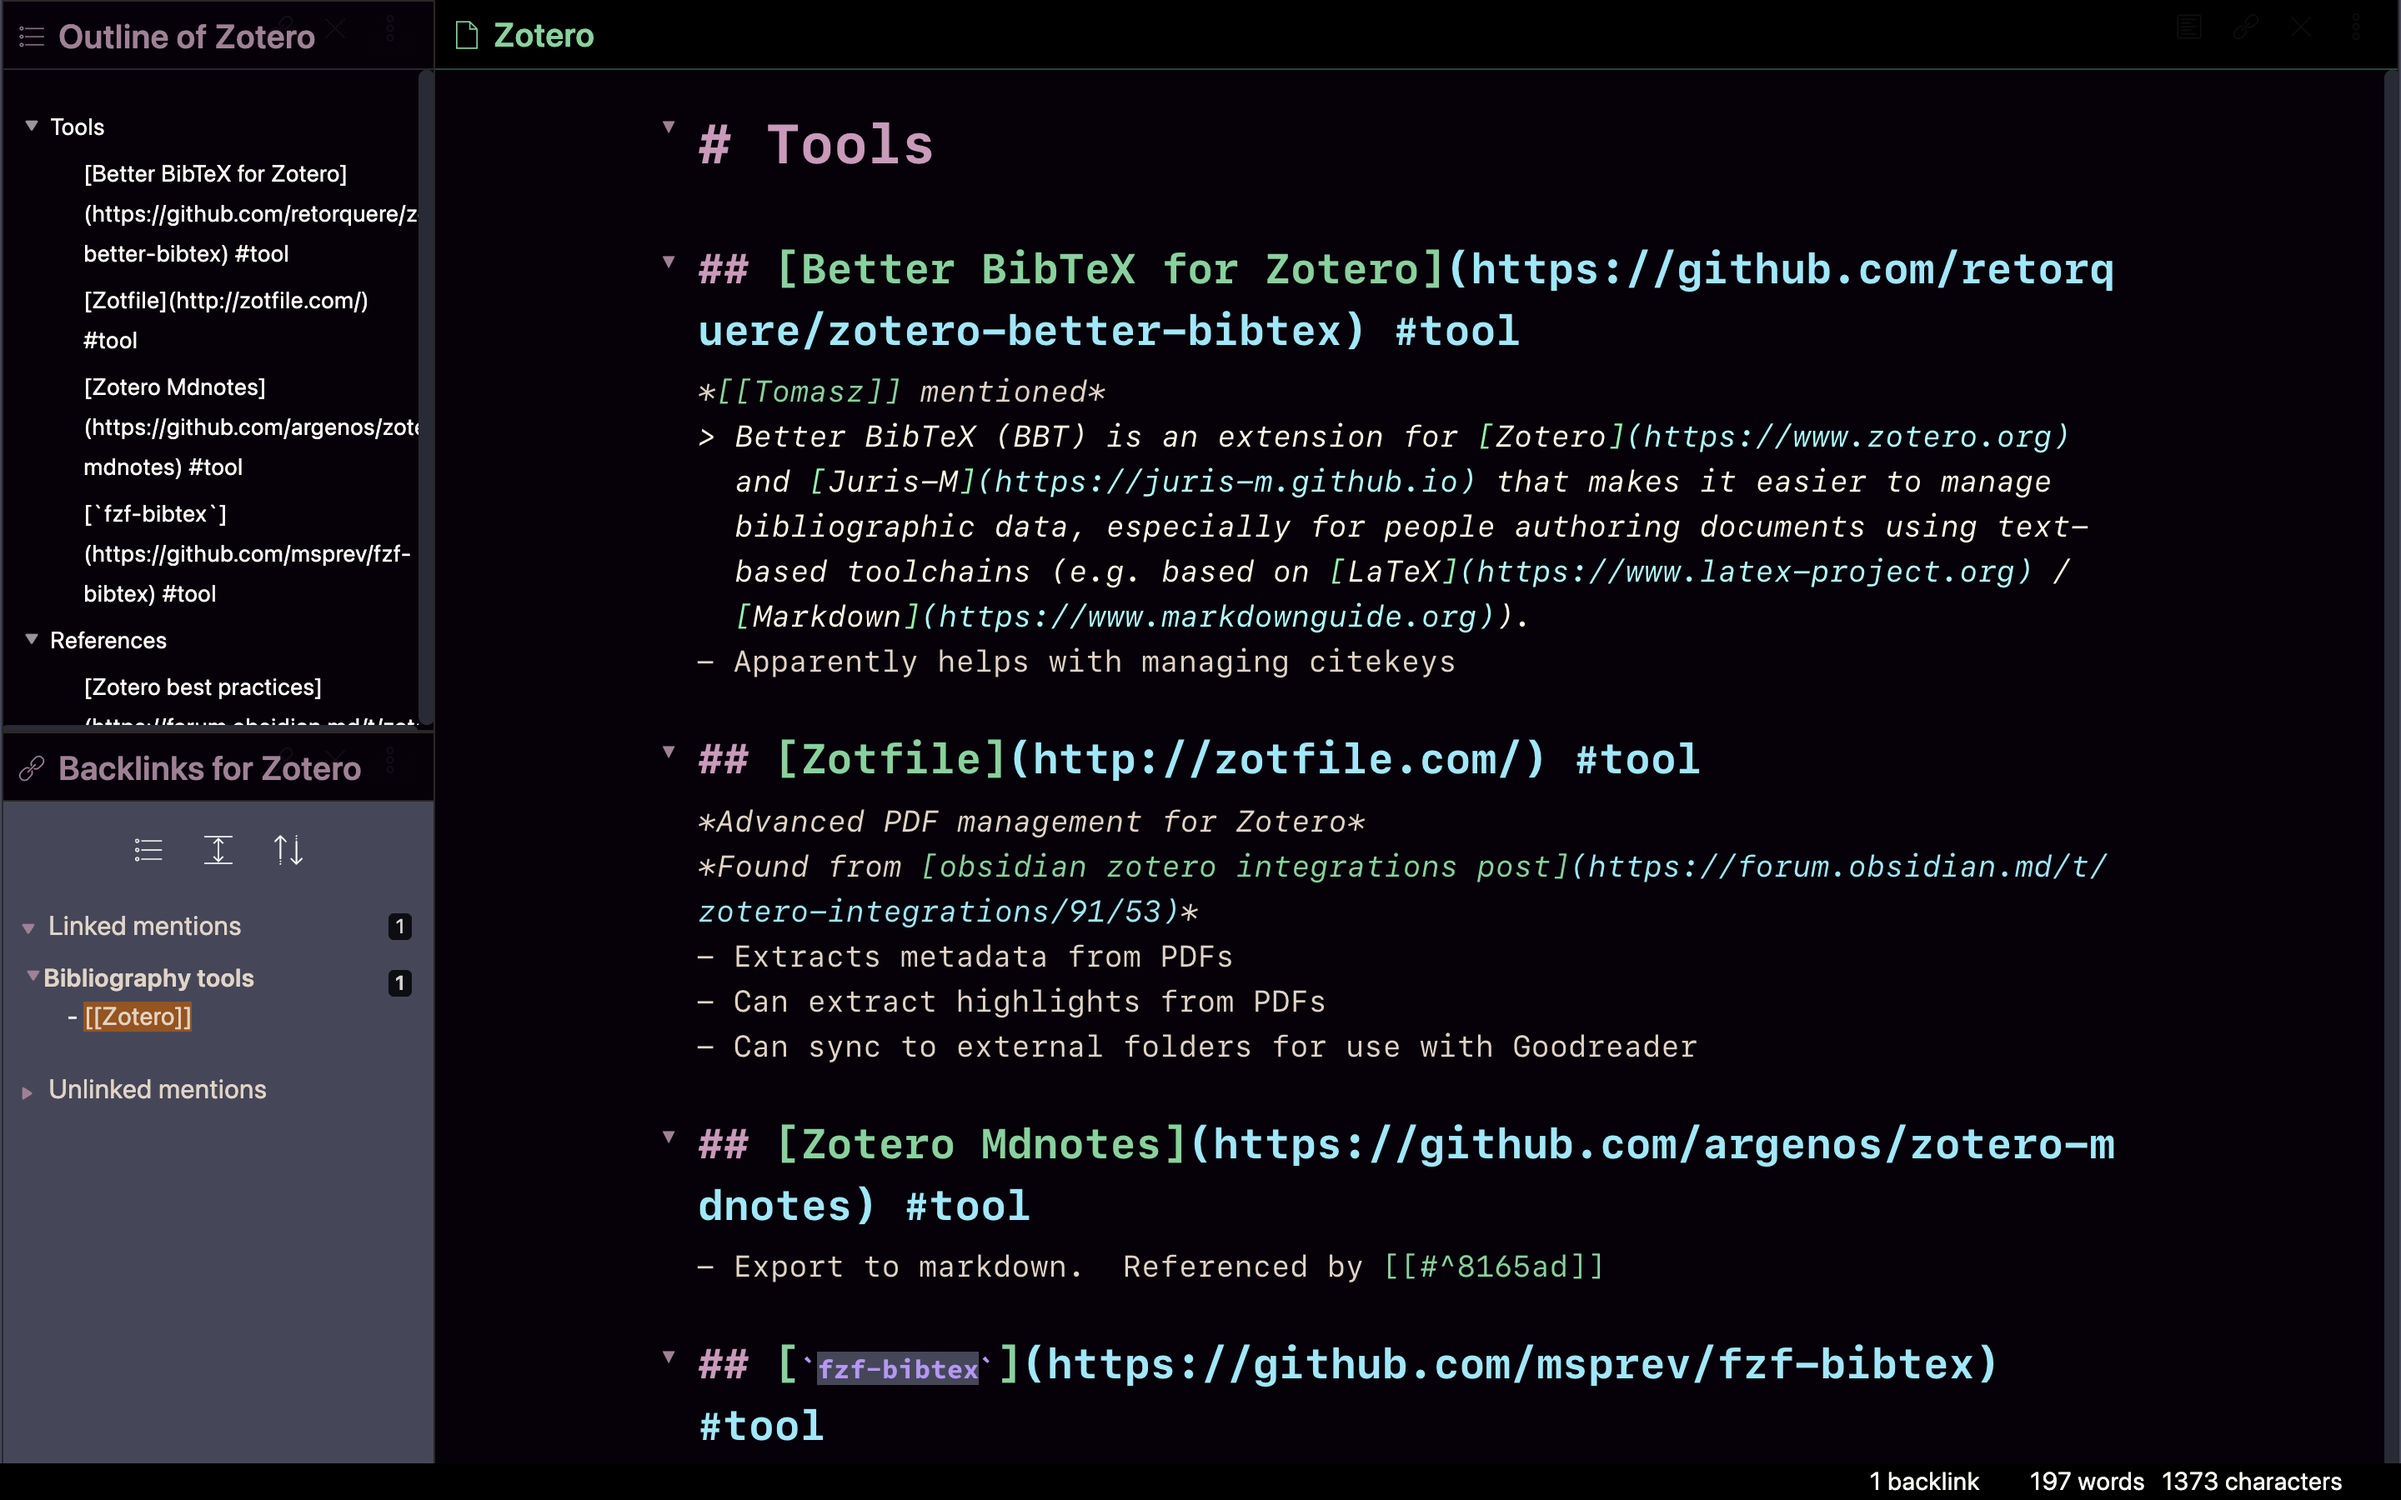
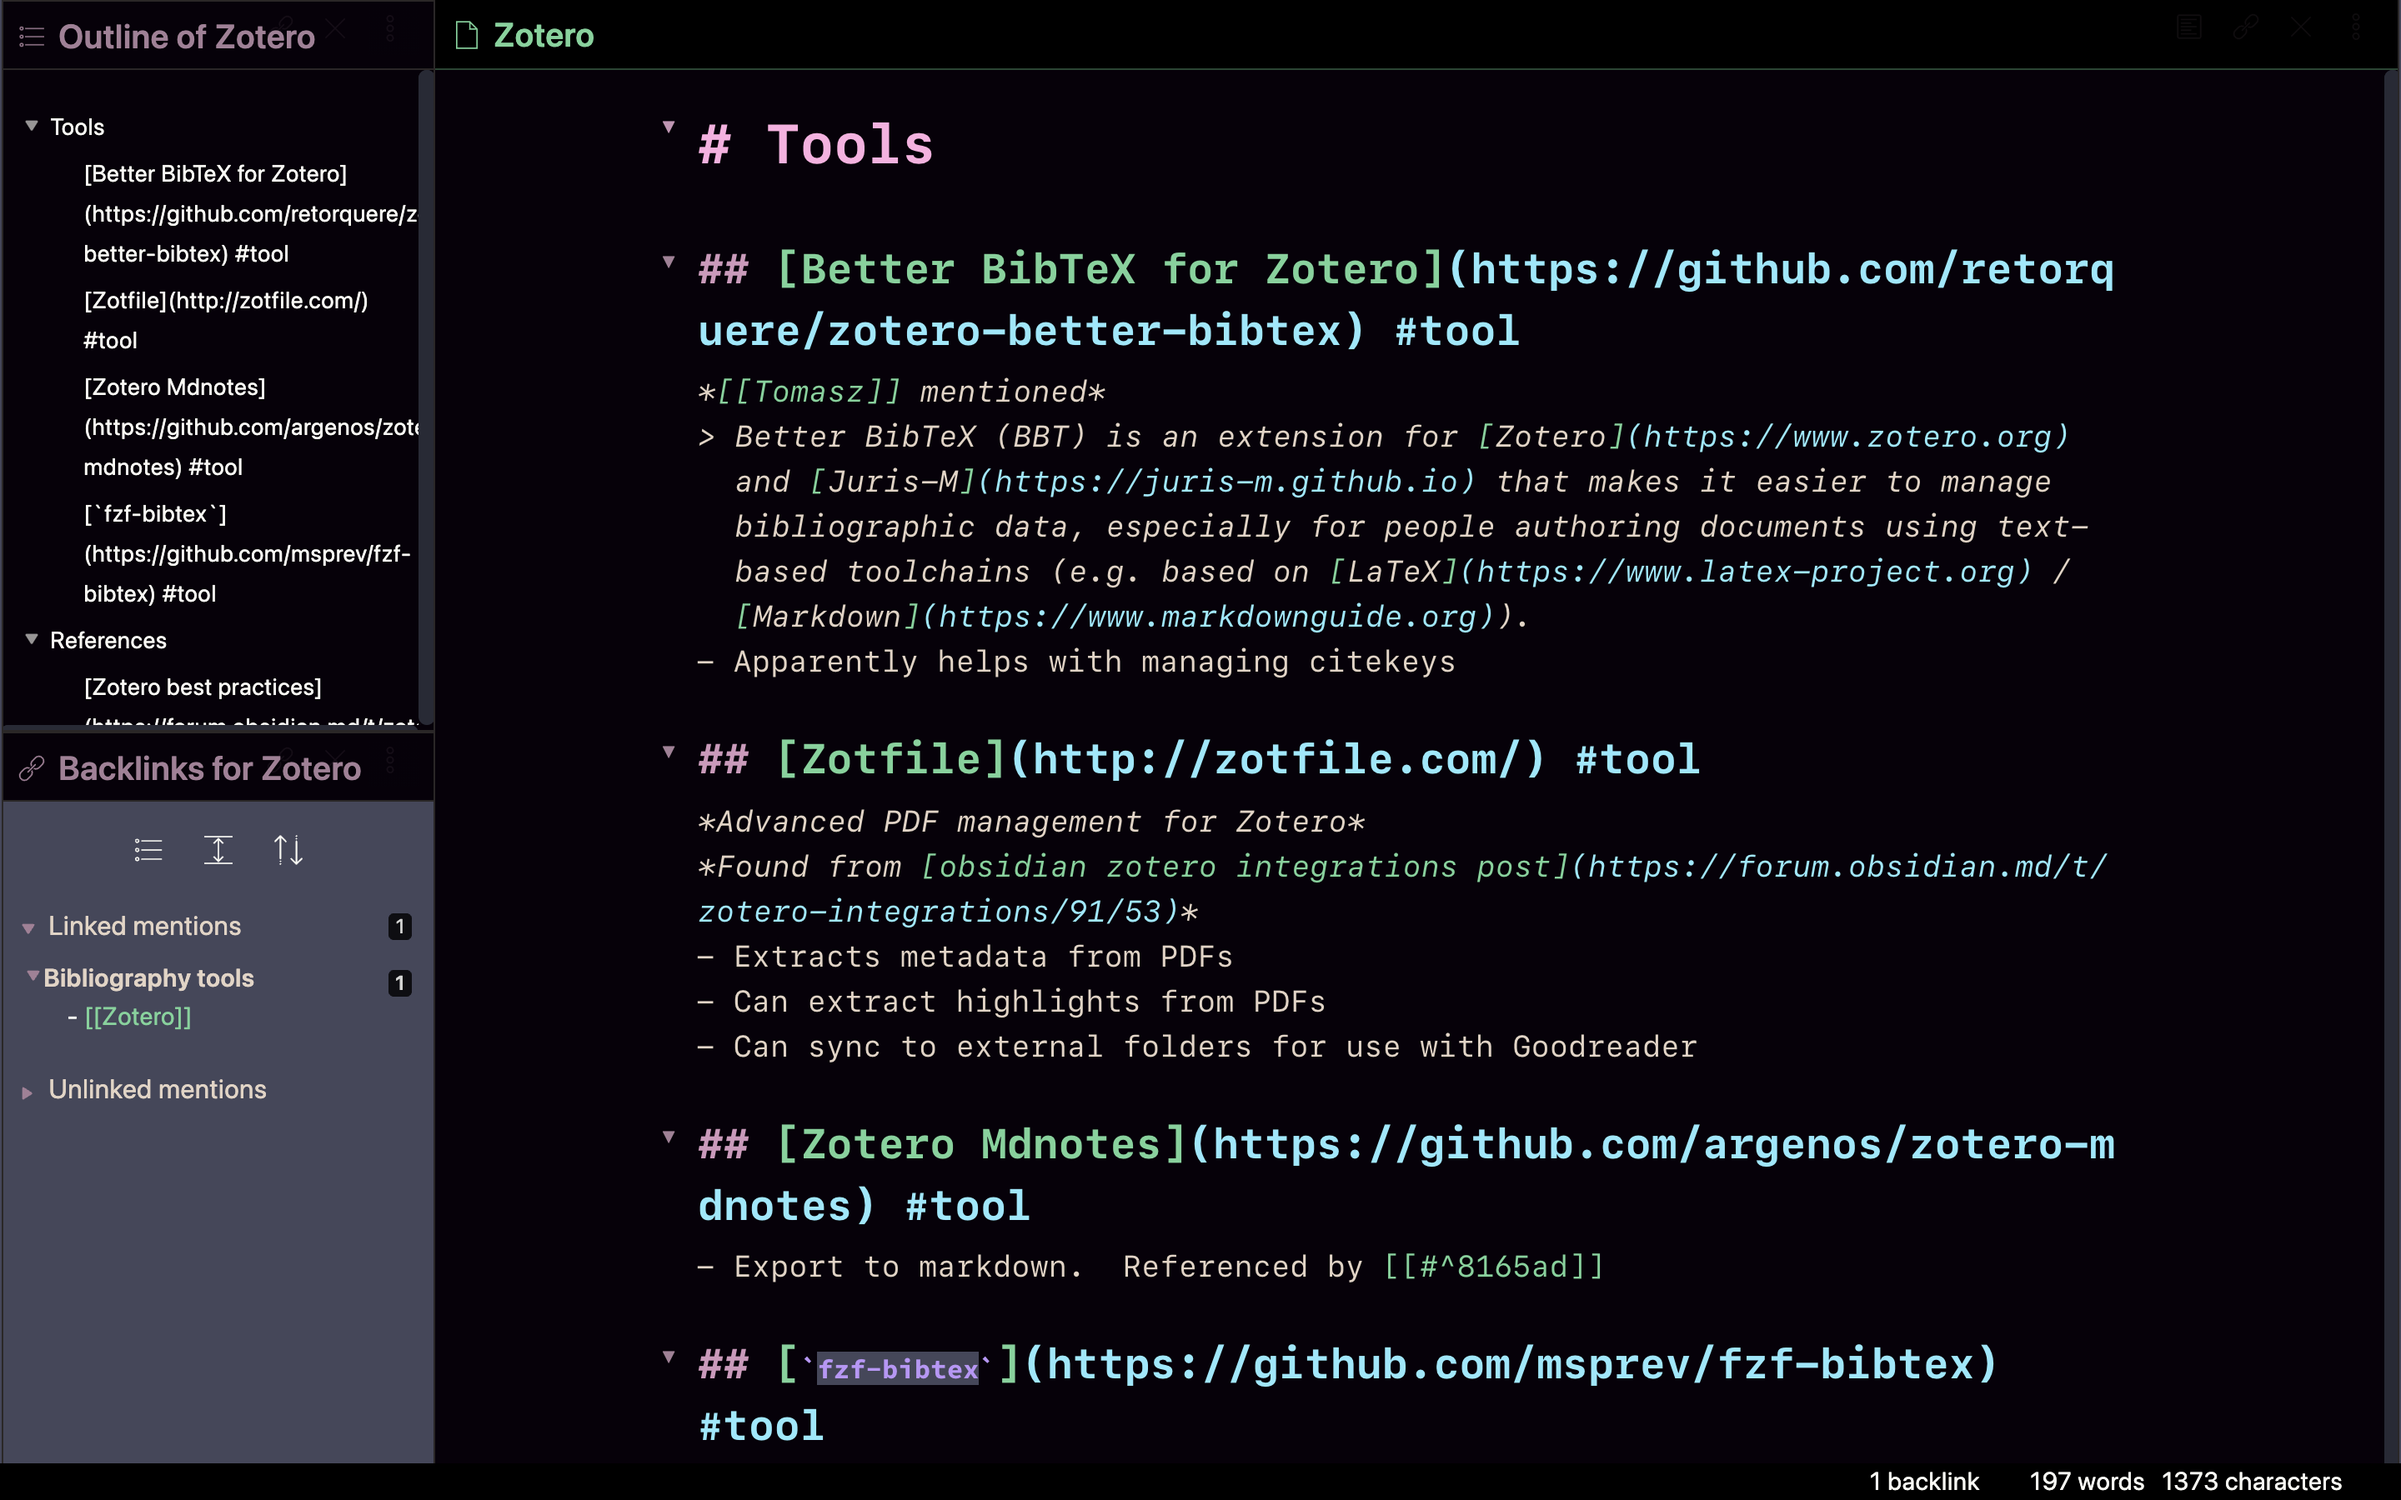
Change search highlights

diff --git a/obsidian.css b/obsidian.css
@@ -37,7 +37,7 @@
   --text-normal: #E3D3C4;
   --text-muted: #f8f8f2;
   --text-faint: #a57f97;
-  --text-highlight-bg: #a05006;
+  --text-highlight-bg: #6fd498;
   --text-error: #ff79c6;
   --text-error-hover: #ff79c6;
   --text-selection: #6272a4;
@@ -901,4 +901,13 @@ code {
 
 .CodeMirror-activeline {
     filter: saturate(1.175) brightness(1.175);
+}
+
+.search-result-file-matched-text {
+  color: var(--text-accent);
+  background-color: inherit;
+}
+.search-result-file-matched-text:hover {
+  color: var(--text-accent-hover);
+  background-color: inherit;
 }
